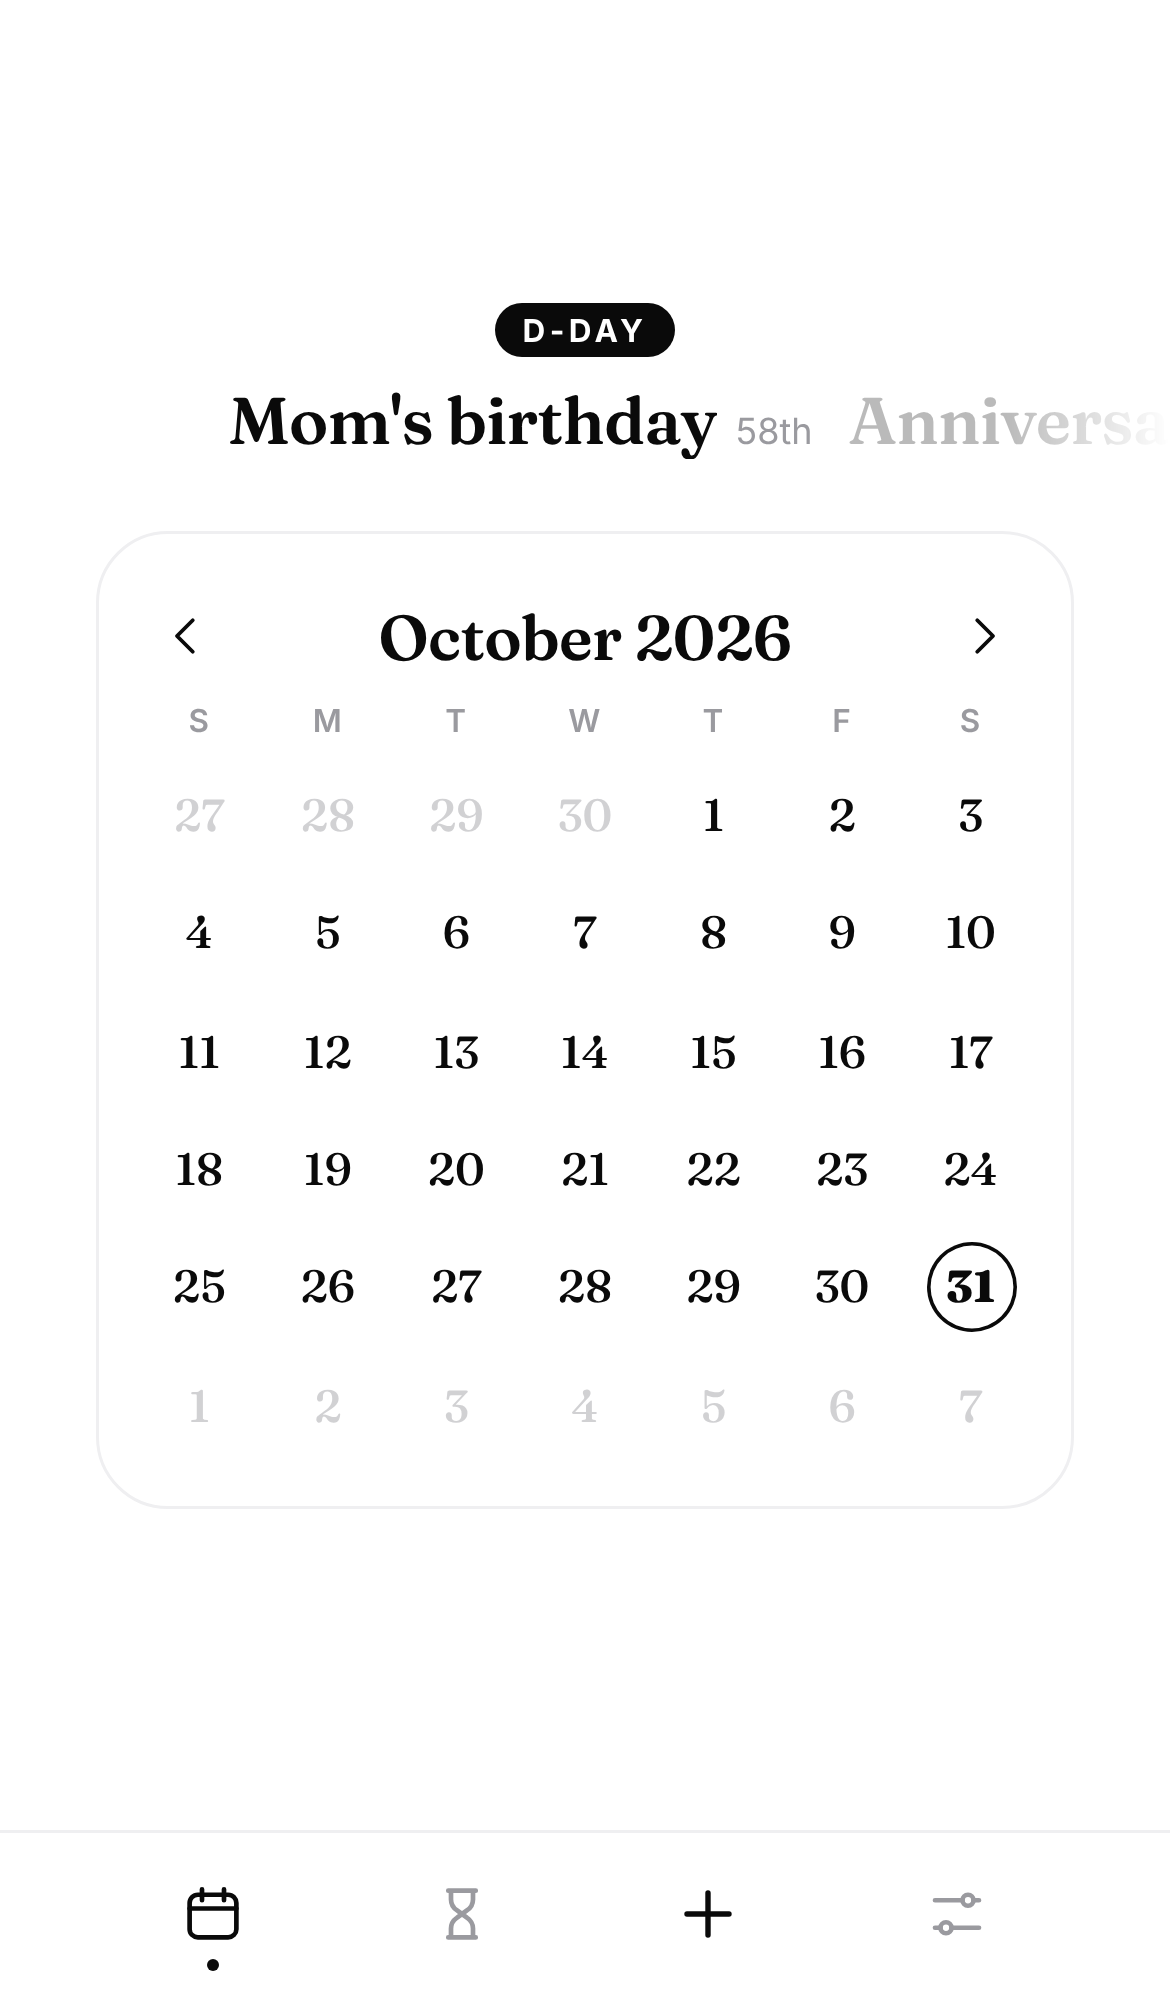
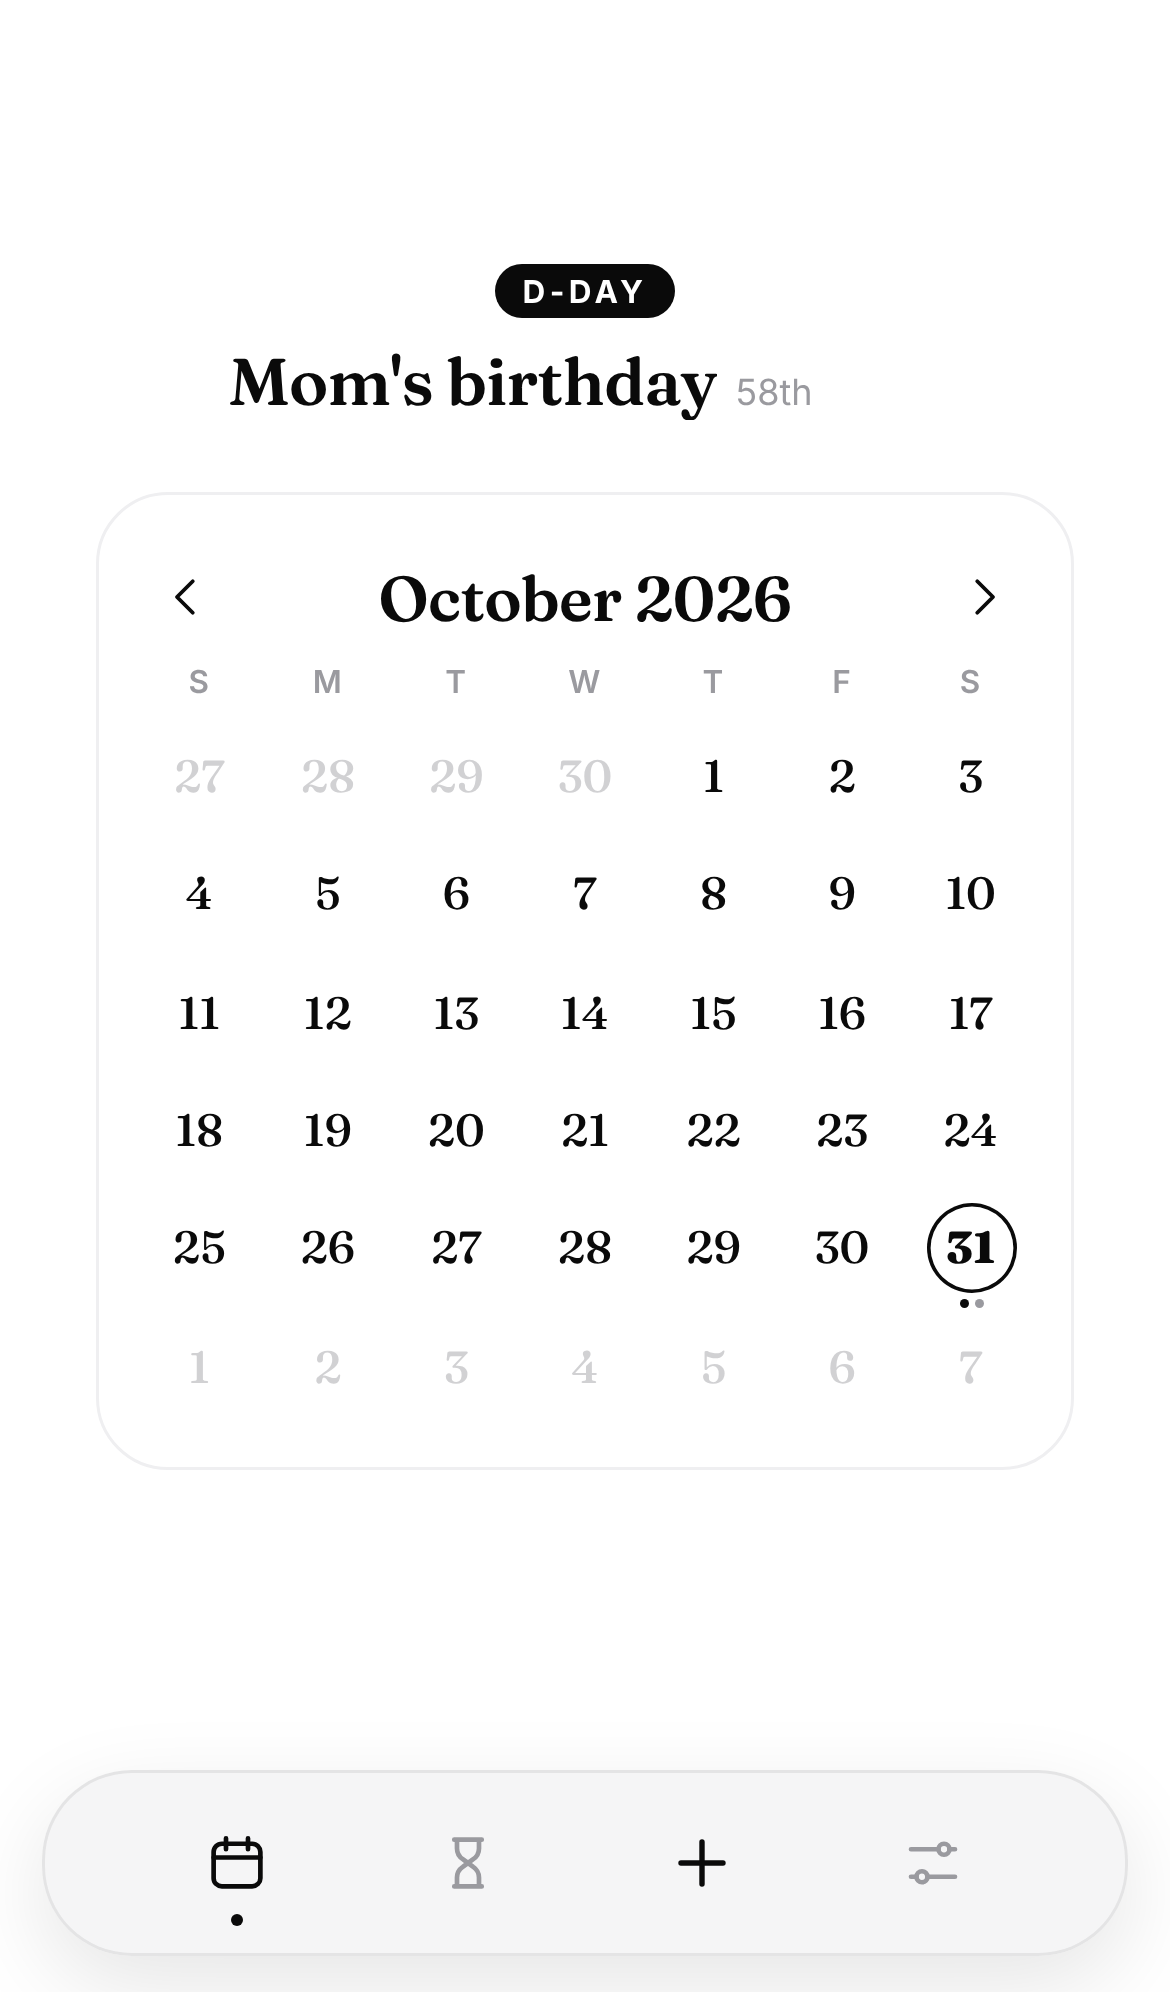
Turn the bottom bar into a floating rounded dock
The tab bar is now an iPhone-style dock: inset from the screen edges,
rounded corners, frosted background (light and dark variants), soft
shadow. Views reserve space for it. Bump service worker cache to
planner-v16.

Claude-Session: https://claude.ai/code/session_01ASSW9g954rm1kx6hrjz3o3

diff --git a/styles.css b/styles.css
@@ -16,7 +16,11 @@
   --accent: var(--fg);
   --on-accent: var(--bg);
   --hour: 48px;
-  --tabbar: 54px;
+  /* Floating rounded dock at the bottom (like the iPhone dock). --tabbar = space it takes. */
+  --dock-h: 62px;
+  --dock-bottom: max(12px, calc(env(safe-area-inset-bottom) - 8px));
+  --tabbar: calc(var(--dock-h) + var(--dock-bottom));
+  --dock-bg: rgba(242, 242, 244, .78);
   --gap: 24px;          /* space around the calendar card */
   --cal-pad: 12px;
   --cal-head: 44px;
@@ -35,6 +39,7 @@
   --muted: #7c7c82;
   --line: #1c1c1f;
   --soft: #141416;
+  --dock-bg: rgba(30, 30, 32, .78);
   color-scheme: dark;
 }
 
@@ -68,7 +73,7 @@ svg { width: 20px; height: 20px; fill: none; stroke: currentColor; stroke-width:
   display: flex;
   flex-direction: column;
   padding-top: calc(env(safe-area-inset-top) + var(--gap));
-  padding-bottom: calc(var(--tabbar) + env(safe-area-inset-bottom) + var(--gap));
+  padding-bottom: calc(var(--tabbar) + var(--gap));
 }
 .view[hidden] { display: none; }
 
@@ -269,14 +274,15 @@ svg { width: 20px; height: 20px; fill: none; stroke: currentColor; stroke-width:
 
 /* ---------- Tab bar ---------- */
 .tabbar {
-  position: fixed; left: 0; right: 0; bottom: 0;
-  height: calc(var(--tabbar) + env(safe-area-inset-bottom));
-  padding-bottom: env(safe-area-inset-bottom);
-  display: flex; justify-content: space-evenly; align-items: center; padding-inline: 12px;
-  background: color-mix(in srgb, var(--bg) 88%, transparent);
-  backdrop-filter: blur(20px); -webkit-backdrop-filter: blur(20px);
-  border-top: 1px solid var(--line);
-  z-index: 5;
+  position: fixed; z-index: 5;
+  left: max(14px, env(safe-area-inset-left)); right: max(14px, env(safe-area-inset-right));
+  bottom: var(--dock-bottom); height: var(--dock-h);
+  display: flex; justify-content: space-evenly; align-items: center; padding-inline: 10px;
+  border-radius: 30px;
+  background: var(--dock-bg);
+  backdrop-filter: blur(24px) saturate(1.4); -webkit-backdrop-filter: blur(24px) saturate(1.4);
+  border: 1px solid color-mix(in srgb, var(--fg) 7%, transparent);
+  box-shadow: 0 10px 30px rgba(0, 0, 0, .10);
 }
 .tab { width: 48px; height: 100%; display: grid; place-items: center; color: var(--muted); position: relative; }
 .tab svg { width: 22px; height: 22px; }
@@ -284,7 +290,7 @@ svg { width: 20px; height: 20px; fill: none; stroke: currentColor; stroke-width:
 .tab-add { width: 48px; height: 100%; display: grid; place-items: center; color: var(--fg); transition: transform .12s; }
 .tab-add svg { width: 24px; height: 24px; stroke-width: 1.8; }
 .tab-add:active { transform: scale(.88); }
-.tab.active::after { content: ""; position: absolute; bottom: 7px; width: 4px; height: 4px; border-radius: 50%; background: var(--fg); }
+.tab.active::after { content: ""; position: absolute; bottom: 9px; width: 4px; height: 4px; border-radius: 50%; background: var(--fg); }
 
 /* ---------- Settings view ---------- */
 .settings { padding: 18px 18px 24px; overflow-y: auto; display: grid; gap: 22px; align-content: start; }

diff --git a/sw.js b/sw.js
@@ -1,5 +1,5 @@
 // Bump CACHE whenever any file in ASSETS changes, so installed copies update.
-const CACHE = 'planner-v15';
+const CACHE = 'planner-v16';
 const ASSETS = [
   './',
   'index.html',

diff --git a/CLAUDE.md b/CLAUDE.md
@@ -20,7 +20,8 @@ laptop. So:
 
 ## Product requirements (from the owner)
 
-- **Bottom bar** (icon-only, evenly spaced): Calendar · D-Day · **+** (a plain + icon,
+- **Bottom bar** = a floating rounded dock like the iPhone home-screen dock (inset
+  from the edges, frosted `--dock-bg`, radius 30px; icon-only, evenly spaced): Calendar · D-Day · **+** (a plain + icon,
   no circle; on the D-Day tab it adds a D-Day) · Settings. More tabs will be added later; a tab = a `.tab[data-view]` button in
   `index.html` + a `#view-<name>` container, switched by `view.tab` in `js/app.js`.
 - The calendar is a **perfect square card** (always 6 week rows) with space on
@@ -185,7 +186,7 @@ GitHub Pages serving the repo root (all paths are relative, so it works under
 `/APP-Design/`): repo Settings → Pages → Deploy from a branch → branch, `/ (root)`.
 
 **When you change any file the app loads, bump `CACHE` in `sw.js`**
-(currently `planner-v15`; bump to `planner-v16`, …) and keep its `ASSETS` list in sync
+(currently `planner-v16`; bump to `planner-v17`, …) and keep its `ASSETS` list in sync
 with every file in `js/` and `fonts/`, otherwise installed phones keep stale files.
 
 ## Git conventions
